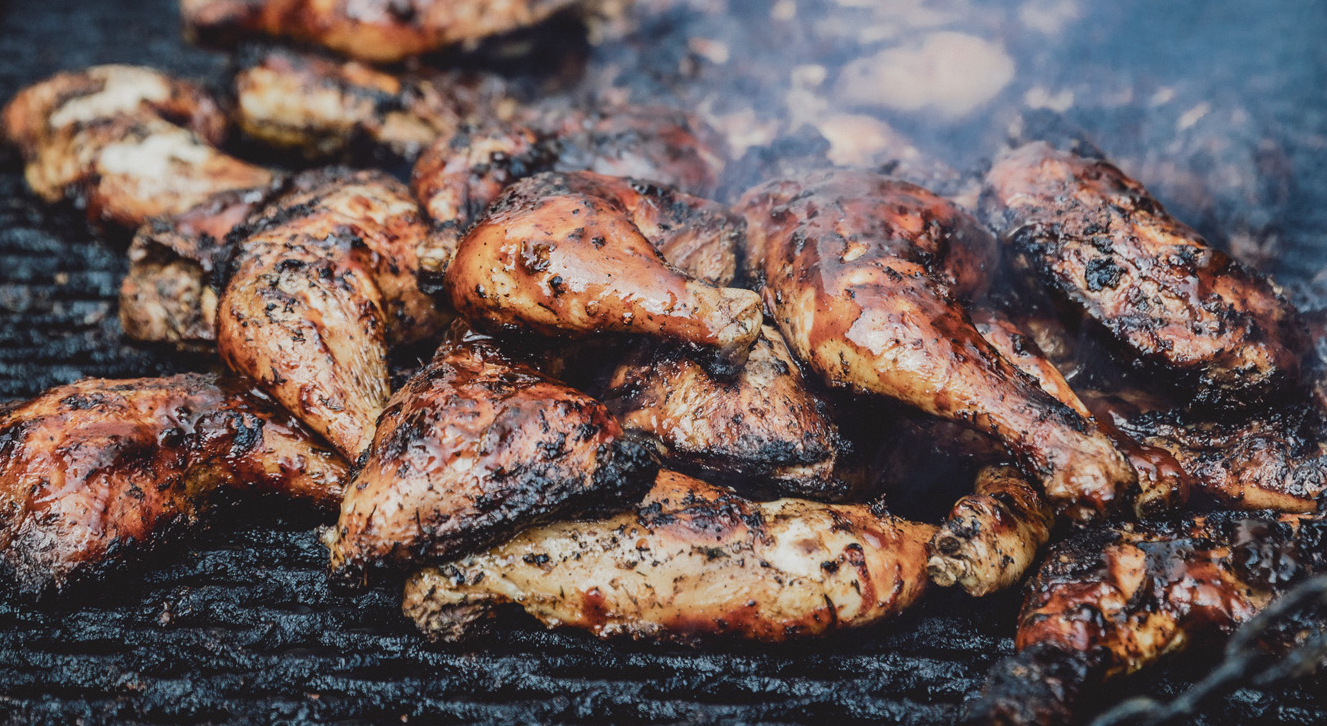
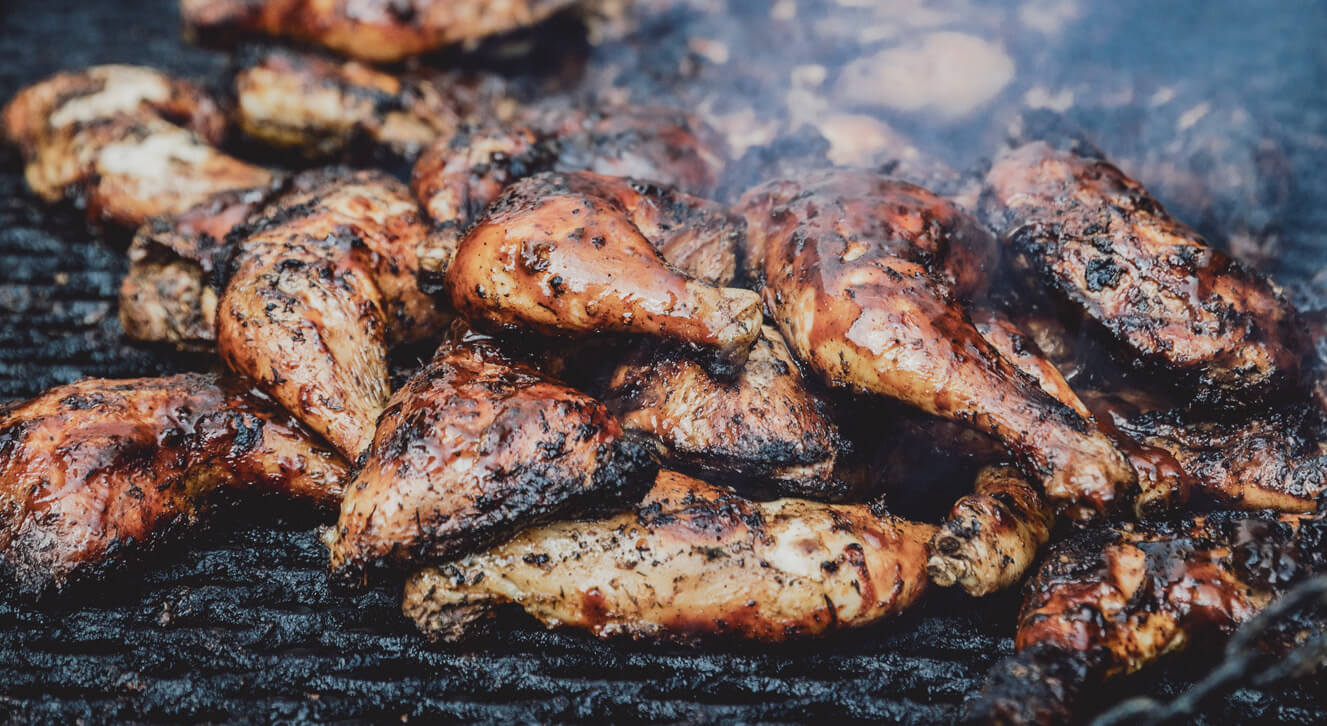
Add compresed images

diff --git a/templates/en/base_en.html b/templates/en/base_en.html
@@ -7,7 +7,14 @@
 
 <head>
     <meta charset="UTF-8">
+    <meta http-equiv="X-UA-Compatible" content="IE=edge">
     <meta name="viewport" content="width=device-width, initial-scale=1.0">
+    <meta name="description"
+        content="Explore the world of street food and culinary tales with Street Gastronomy. Dive deep into global flavors, travel diaries, and mouth-watering recipes.">
+    <meta name="keywords"
+        content="street food, gastronomy, global cuisine, travel, recipes, culinary adventures, Kristian Smith, world flavors, cultural exploration">
+    <meta name="author" content="Kristian Smith">
+
     <title>Street Gastronomy</title>
     <link rel="preconnect" href="https://fonts.googleapis.com">
     <link rel="preconnect" href="https://fonts.gstatic.com" crossorigin>
@@ -17,6 +24,7 @@
     <link href="https://maxcdn.bootstrapcdn.com/bootstrap/4.5.2/css/bootstrap.min.css" rel="stylesheet">
     <link rel="stylesheet" href="https://cdnjs.cloudflare.com/ajax/libs/font-awesome/5.15.1/css/all.min.css">
     <link rel="stylesheet" href="{% static 'css/styles.css' %}">
+    <link rel="icon" href="static/images/favicon-96x96.png"/>
 </head>
 
 <body>

diff --git a/templates/se/base_se.html b/templates/se/base_se.html
@@ -5,7 +5,15 @@
 
 <head>
     <meta charset="UTF-8">
+    <meta http-equiv="X-UA-Compatible" content="IE=edge">
     <meta name="viewport" content="width=device-width, initial-scale=1.0">
+    <meta name="description"
+        content="Utforska världen av gatumat och kulinariska berättelser med Street Gastronomy. Djupdyk i globala smaker, reseberättelser och läckra recept.">
+    <meta name="keywords"
+        content="gatumat, gastronomi, globalt kök, resor, recept, kulinariska äventyr, Kristian Smith, världssmaker, kulturell utforskning">
+
+    <meta name="author" content="Kristian Smith">
+
     <title>Street Gastronomy</title>
     <link rel="preconnect" href="https://fonts.googleapis.com">
     <link rel="preconnect" href="https://fonts.gstatic.com" crossorigin>
@@ -15,6 +23,7 @@
     <link href="https://maxcdn.bootstrapcdn.com/bootstrap/4.5.2/css/bootstrap.min.css" rel="stylesheet">
     <link rel="stylesheet" href="https://cdnjs.cloudflare.com/ajax/libs/font-awesome/5.15.1/css/all.min.css">
     <link rel="stylesheet" href="{% static 'css/styles.css' %}">
+    <link rel="icon" href="static/images/favicon-96x96.png"/>
 </head>
 
 <body>

diff --git a/templates/en/index_en.html b/templates/en/index_en.html
@@ -10,7 +10,7 @@
         <h2>Welcome</h2>
         <div class="row align-items-center"> 
             <div class="col-md-5 col-12 img-container"> 
-                <img src="{% static 'images/kristian-smith-roots.jpg' %}" alt="Description of Image" class="img-fluid welcome-image">
+                <img src="{% static 'images/kristian-smith-roots.jpg' %}" alt="Kristian smiling and holding cloth ready to bbq" class="img-fluid welcome-image">
             </div>
             <div class="col-md-7 welcome-text-container"> 
                 <h2>Kristian Smith</h2>

diff --git a/templates/se/index_se.html b/templates/se/index_se.html
@@ -8,7 +8,7 @@
         <h2>Välkommen</h2>
         <div class="row align-items-center"> 
             <div class="col-md-5"> 
-                <img src="{% static 'images/kristian-smith-roots.jpg' %}" alt="Description of Image" class="img-fluid welcome-image">
+                <img src="{% static 'images/kristian-smith-roots.jpg' %}" alt="Kristian smiling and holding cloth ready to bbq" class="img-fluid welcome-image">
             </div>
             <div class="col-md-7 welcome-text-container"> 
                 <h2>Kristian Smith</h2>

diff --git a/templates/base.html b/templates/base.html
@@ -16,6 +16,7 @@
     <link href="https://maxcdn.bootstrapcdn.com/bootstrap/4.5.2/css/bootstrap.min.css" rel="stylesheet">
     <link rel="stylesheet" href="https://cdnjs.cloudflare.com/ajax/libs/font-awesome/5.15.1/css/all.min.css">
     <link rel="stylesheet" href="{% static 'css/styles.css' %}">
+    <link rel="icon" href="static/images/favicon-96x96.png"/>
 </head>
 
 <body>

diff --git a/templates/de/base_de.html b/templates/de/base_de.html
@@ -16,6 +16,7 @@
     <link href="https://maxcdn.bootstrapcdn.com/bootstrap/4.5.2/css/bootstrap.min.css" rel="stylesheet">
     <link rel="stylesheet" href="https://cdnjs.cloudflare.com/ajax/libs/font-awesome/5.15.1/css/all.min.css">
     <link rel="stylesheet" href="{% static 'css/styles.css' %}">
+    <link rel="icon" href="static/images/favicon-96x96.png"/>
 </head>
 
 <body>
